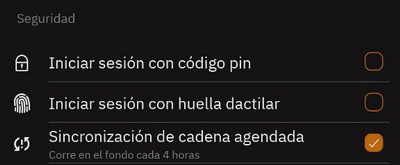
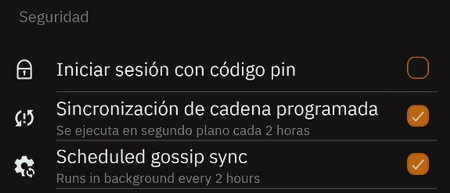
update features EN and ES with images

diff --git a/features_es.html b/features_es.html
@@ -248,12 +248,25 @@ title: Características
     </p>
   <h4>Sincronización de cadena programada</h4>
     <p>
-      Esta opción por defecto viene activada y es mejor quedarse así. 
-      Ejecutará la sincronización de bloques con Neutrino, cada 4 horas, si la aplicación está activa.
+      Esta opción viene activada por defecto y lo mejor es mantenerla así.
+      Ejecutará la sincronización de bloques de Neutrino cada 4 horas en segundo plano.
     </p>
     <p>
-      Si esta opción está deshabilitada, el nodo dejará de funcionar y toda la aplicación Blixt no funcionará correctamente. 
-      Una vez reactivada, es mejor reiniciar la aplicación, para que el nodo lnd inicie sus servicios correctamente.
+      Si esta opción está deshabilitada, la sincronización de neutrinos solo es posible cuando la aplicación se ejecuta en primer plano.
+      Esto puede hacer que la sincronización de la cadena de bloques tarde más en el inicio de la aplicación si Blixt Wallet no se ha abierto en algún momento.
+    </p>
+    <p>
+      Nota: esta función no está disponible actualmente en iOS.
+    </p>
+  <h4>Sincronización de chismes programados</h4>
+    <p>
+      Esta opción NO está activada de forma predeterminada, pero se recomienda para una sincronización de gráficos LN más rápida.
+      Ejecutará la sincronización de chismes de LN cada 2 horas en segundo plano.
+    </p>
+    <p>
+      Si esta opción está deshabilitada, la sincronización del gráfico LN solo es posible cuando la aplicación se ejecuta en primer plano.
+      Esto puede hacer que la sincronización de LN tarde más en el inicio de la aplicación si Blixt Wallet no se ha abierto en algún momento.
+      y, a veces, incluso podría desencadenar "pagos fallidos debido a que no hay rutas".
     </p>
   </section>
 
@@ -338,6 +351,14 @@ title: Características
     <p>Tenga en cuenta que si desea agregar pares que están detrás de Tor, primero deberá activar el
       Opción Tor en la configuración de Blixt y reinicie la aplicación Blixt.
     </p>
+  <h4>Mostrar información de red</h4>
+    <p>Esta pantalla mostrará el estado del gráfico LN sincronizado por su nodo Blixt.
+       Es una muy buena información estadística para ver cómo se posiciona su nodo Blixt en toda la red.</p>
+    <p>Mostrará: capacidad total de la red, número de canales, número de nodos, tamaño promedio del canal, número de canales zombis.</p>
+  <h4>Establecer tarifa máxima de pago</h4>
+    <p>En esta opción, el usuario puede establecer su propio porcentaje de tarifa que está dispuesto a pagar.</p>
+    <p>Esta opción es muy útil en los casos en que un pago podría fallar debido a las altas tarifas de enrutamiento encontradas.</p>
+    <p>Proceda con precaución, por defecto es 2%, como tarifa máxima, puede aumentarla lentamente.</p>
   <h4>Canales abiertos automáticamente</h4>
     <p>
       Una característica básica de LND, que ofrece al usuario una forma sencilla de abrir automáticamente su primer canal LN.
@@ -364,6 +385,21 @@ title: Características
       Es fácil de usar, solo ve y actívalo, selecciona uno de los proveedores de liquidez en la lista, por el momento Thor Bitrefill y LNBIG, 
       pague la cantidad que desee por el canal y proporcione su nodoURI de cebolla Blixt Tor hacia el canal que estará abierto.
     </p>
+  <h4>Habilitar Dunder LSP</h4>
+    <p>Un servicio increíble que le permite comenzar a aceptar BTC a través de Lightning Network de inmediato,
+      sin necesidad de depositar primero fondos en la cadena para abrir un canal Lightning.
+    </p>
+    <p>
+      Para los nuevos usuarios, esta es una experiencia rápida y fácil porque pueden comenzar desde cero y recibir fondos directamente a través de Lightning Network.
+    </p>
+    <p>El tamaño del canal abierto por Dunder LSP está sujeto a cambios según la demanda y la liquidez disponible.
+      Este es un servicio gratuito por ahora para facilitar la incorporación de nuevos usuarios y crear una experiencia perfecta para recibir fondos directamente a través de Lightning Network. La única tarifa que se cobra es la tarifa en cadena necesaria para abrir el canal de entrada.
+    </p>
+    <p><a href="https://github.com/hsjoberg/dunder-lsp">Lea más sobre el desarrollo de Dunder LSP aquí.</a></p>
+    <p><a href="guides.html#guide-lsp">Lea una guía más detallada sobre el uso de Dunder LSP en la página de guías de Blixt.</a></p>
+  <h4>Establecer el servidor LSP de Dunder</h4>
+    <p>En esta sección, el usuario puede configurar un servidor Dunder LSP personalizado, diferente al predeterminado dunder.blixtwallet.com.</p>
+    <p>Puede consultar <a href="https://github.com/hsjoberg/blixt-wallet/issues/1033">en esta lista de la comunidad</a> qué otros corredores de nodos podrían ofrecer estos servicios de canales de Dunder.< /p>
   <h4>Espere la sincronización del mapa LN (graph) antes de pagar</h4>
     <p>
       Esta opción está deshabilitada por defecto y es bastante técnica. 
@@ -384,12 +420,12 @@ title: Características
     <p>
       Muestra los detalles más técnicos habituales sobre el desarrollador de Blixt, el software utilizado, la información de Github y las licencias.
     </p>
-  <h4>Copie el registro de la aplicación en el almacenamiento local</h4>
+  <h4>Copiar el registro de la aplicación en el almacenamiento local</h4>
     <p>
       Esta opción le brinda al usuario una forma de exportar todos los registros de la aplicación a una carpeta seleccionada en el dispositivo local. 
       Más tarde, el archivo de registro (txt) podría consultarse o enviarse para su depuración al desarrollador o al equipo de soporte.
     </p>
-  <h4>Copie el registro de lnd en el almacenamiento local</h4>
+  <h4>Copiar el registro de lnd en el almacenamiento local</h4>
     <p>
       Esta opción es muy útil para exportar y depurar los registros del nodo lnd a una carpeta seleccionada. 
       Una vez que se hace clic, se le pide al usuario que seleccione una carpeta de destino. 
@@ -401,6 +437,8 @@ title: Características
       Pero si está probando los pagos y establece un tiempo más alto para vencer las facturas que creó, 
       puede reutilizar las facturas pendientes de pago anteriores de la lista.
     </p>
+  <h4>Transiciones de pantalla</h4>
+    <p>Activar/desactivar una suave transición animada de pantallas usando Blixt.</p>
   <h4>Firmar mensaje con llave del monedero</h4>
     <p>
       Característica muy poderosa, que ofrece una forma de firmar mensajes o acciones específicas, utilizando la clave de billetera única como autenticador. 
@@ -428,13 +466,6 @@ title: Características
     </p>
     <p><a href="https://github.com/hsjoberg/dunder-lsp">Lea más sobre el desarrollo de Dunder LSP aquí.</a></p> 
     <p><a href="guides_es.html#guia-lsp">Lea una guía más detallada sobre el uso de Dunder LSP en la página de guías de Blixt.</a></p>
-  <h4>Habilitar pagos de múltiples rutas</h4>
-    <p>
-      Característica muy poderosa para una billetera LN. 
-      Cuando está habilitado, un pago más grande se divide en partes más pequeñas y puede tomar más rutas.
-    </p>
-    <p>De esta manera está utilizando canales y pares de una manera más eficiente y evita pagos atascados, debido a la baja liquidez en el camino.</p>
-    <p>El valor predeterminado no está habilitado, pero es bueno usarlo cuando desea realizar un pago mayor. Para pequeños pagos no se utiliza.</p>
   <h4>Habilitar Tor</h4>
     <p>Una vez activada, la aplicación Blixt se reiniciará usando la red Tor.
       A partir de ese momento, puede ver en la configuración del menú: Información de nodo, su ID de nodo con una dirección onion,
@@ -443,7 +474,7 @@ title: Características
       O digamos que tiene su propio nodo en casa y quiere tener un canal con su nodo Blixt móvil.
       Una combinación perfecta. <a href="guides_es.html#guia-companion">Ver más detalles en la página de Guías Blixt.</a>
     </p>
-  <h4>Caducidad de la factura</h4>
+  <h4>Vencimiento de la factura</h4>
     <p>
       Esta opción es para cuando el usuario desea crear una factura LN específica con un tiempo de vencimiento específico (normalmente más largo). 
       El valor predeterminado es 3600 segundos.
@@ -452,45 +483,68 @@ title: Características
       Tenga en cuenta que usar un tiempo más largo para caducar no significa que pueda cerrar su Blixt Wallet para recibir esa factura, 
       aún necesita mantener abierta su aplicación Blixt, para mantener los canales en línea y su nodo Blixt accesible.
     </p>
+  <h4>Habilitar la búsqueda de ruta bimodal</h4>
+    <p>Esta es una característica bastante nueva de LND que ayuda a encontrar una mejor ruta de pago.</p>
+    <p><a href="https://docs.lightning.engineering/lightning-network-tools/lnd/pathfinding#docs-internal-guid-d4234be7-7fff-4a09-fdbb-2c7e451ed1db">Lea más detalles sobre bimodal búsqueda de caminos aquí.</a></p>
   </section>
 
   <section id="opcion-debug">
   <h3>Sección de depuración</h3>
     <p><img src="assets/images/blixt-options-debug-es.jpg" align="center" alt="Blixt Debug Options"/></p>
   <h4>Mostrar notificaciones de información de inicio</h4>
-    <p>Esta opción, cuando está activada y la aplicación Blixt se está iniciando, mostrará notificaciones de depuración en la parte inferior de la pantalla.
-      Se usa principalmente para usuarios avanzados cuando se desea diagnosticar los servicios de inicio de la aplicación.
-    </p>
-  <h4>Volver a escanear monedero</h4>
     <p>
-      Herramienta muy útil, cuando al usuario le faltan UTXO en la billetera onchain, 
-      o después de cerrar los canales, los fondos no aparecen reembolsados.    
+      Cuando está habilitado, las notificaciones aparecerán en la parte inferior de la pantalla después de iniciar Blixt Wallet mostrando el estado actual del proceso de inicio. Esto puede ser útil para depurar problemas de inicio.
     </p>
-    <p>
-      Una vez activada, la aplicación Blixt debe reiniciarse. El proceso finaliza cuando se inicia lnd y, 
-      después de una sincronización rápida, comenzará a escanear 
-      todos los bloques para direcciones BTC usadas, agregando el historial de transacciones en la billetera onchain.
+  <h4>Volver a escanear la billetera</h4>
+    <p>Esta es una herramienta útil si parece que le faltan fondos en la billetera en cadena.</p>
+    <p>Una vez activado, Blixt Wallet debe reiniciarse. El proceso comenzará en el próximo inicio de Blixt Wallet y escaneará
+      todos los bloques para las direcciones de Bitcoin usadas, agregando cualquier transacción encontrada a la lista del historial de transacciones en la billetera en cadena. Este proceso puede llevar algún tiempo, así que tenga paciencia.
     </p>
   <h4>Centro de ayuda móvil de LND</h4>
-    <p>Una herramienta muy útil y poderosa para diagnosticar, depurar y probar el estado y los servicios de Blixt Wallet y lnd node.
-      Se puede usar cuando el usuario está en contacto con el desarrollador de Blixt o con el soporte de ayuda en Telegram, para identificar posibles problemas.
+    <p>Esta es una herramienta muy poderosa que se puede usar para diagnosticar, depurar y probar Blixt Wallet y el nodo lnd subyacente.
+      Se puede usar cuando el usuario está en contacto con el desarrollador de Blixt Wallet o soporte en Telegram para identificar posibles problemas.
     </p>
   <h4>Obtener información del nodo</h4>
-    <p>Herramienta sencilla para obtener más información sobre un nodo remoto. El usuario debe proporcionar un ID de nodo.</p>
-  <h4>Leer registro LND</h4>
-    <p>Muy buena herramienta para verificar los registros de lnd y diagnosticar cuando la billetera tiene problemas.
-      También se pueden copiar los registros y enviarlos al desarrollador para una mayor depuración.
-      Pero en general se usa para verificar los servicios y conexiones de inicio, sincronización, etc.
+    <p>Una herramienta sencilla para obtener más información sobre un nodo remoto. Debe proporcionar un ID de nodo.</p>
+  <h4>Obtener información del canal</h4>
+    <p>Una herramienta simple para obtener más información sobre un canal remoto para depurar su estado. Debe proporcionar un ID de canal.</p>
+  <h4>Diagnosticar problemas de Dunder</h4>
+    <p>Una herramienta de depuración simple para probar si un servidor Dunder está en línea y/o tiene fondos suficientes para abrir un canal Dunder.</p>
+  <h4>Leer registro LND</h3>
+    <p>Una herramienta para ver el registro de lnd para diagnosticar cualquier problema que pueda tener.
+      El registro también se puede copiar para enviarlo al desarrollador para una mayor depuración.
+      En general, se puede usar para verificar el proceso de inicio para asegurarse de que todo se vea bien y que la billetera se sincronice correctamente.
     </p>
+  <h4>Establecer nivel de registro LND</h4>
+    <p>Cambie el modo de visualización de los registros LND para centrarse mejor en la información que necesita (depuración, información, advertencia, error, crítica).</p>
   <h4>Activar modo de demostración</h4>
-    <p>Una buena manera de probar la aplicación Blixt, se usa más para demostraciones y no usa datos reales ni satélites.
-      Se usa una sola vez cuando está activado. Después de reiniciar, vuelve a la billetera real normal.
+    <p>Una buena manera de probar Blixt Wallet con fines de demostración sin revelar la información real de la billetera.
+      Cuando se activa, Blixt Wallet estará en modo de demostración hasta que se reinicie.
     </p>
-  <h4>Deshabilitar caché de gráfico lnd</h4>
+  <h4>Desactivar caché de gráfico lnd</h4>
     <p>
-      Una herramienta de depuración para ayudar a un inicio más rápido y diagnosticar posibles problemas. 
-      Se usa más con la ayuda del desarrollador de Blixt.
+      Una herramienta de depuración para ayudar con un inicio más rápido y para diagnosticar posibles problemas. Se usa más con la ayuda del desarrollador de Blixt Wallet.
     </p>
+  <h4>Desactivar caché de gráfico LND</h4>
+    <p>Esta opción debe usarse solo con la supervisión de los desarrolladores de Blixt, solo en caso de problemas de depuración.</p>
+  <h4>Escribir configuración</h4>
+    <p>Esta opción se usa cuando el usuario hará cambios en la configuración del nodo lnd desde los menús avanzados.</p>
+  <h4>Restablecer conocimiento de enrutamiento de pago</h4>
+    <p>Herramienta útil que podría ayudar en caso de un pago fallido debido a que no se encontró la ruta.</p>
+    <p>Está borrando todas las rutas anteriores utilizadas en un pago y prueba una nueva ruta.</p>
+  <h4>Habilitar pagos de múltiples rutas</h4>
+    <p>Una característica muy poderosa para una billetera LN. Cuando está habilitado, un pago más grande se divide en partes más pequeñas que pueden tomar varias rutas.</p>
+    <p>Esto utiliza la liquidez en los canales de manera más eficiente y puede ayudar a evitar que los pagos se atasquen debido a la falta de liquidez en una sola ruta para un pago mayor.</p>
+    <p>Esto está deshabilitado de forma predeterminada, pero es una buena idea usarlo, especialmente si desea realizar o recibir pagos más grandes.</p>
+  <h4>Habilitar LND persistente y Tor</h4>
+    <p>Si está habilitado, el servicio lnd y Tor permanecerán persistentes en el dispositivo.</p>
+    <p>El usuario notará una notificación superior con respecto al servicio Blixt lnd.</p>
+    <p>No se notó un gran consumo de batería del dispositivo, pero los usuarios deben tener en cuenta que este servicio persistente podría usar más de lo habitual.</p>
+    <p>Se recomienda usar solo en los casos en que el nodo Blixt sea necesario para estar permanentemente en línea
+       y sincronizado y el dispositivo está conectado a una fuente de alimentación (por ejemplo, la tienda del comerciante).</p>
+  <h4>Habilitar la poda de gráfico LN estricta</h4>
+    <p>Tenga en cuenta: esta opción es solo para depuración y experimentación. Podría afectar drásticamente la búsqueda de la ruta de pago.</p>
+    <p>Úselo solo con la supervisión de los desarrolladores de Blixt.</p>
   </section>
 
   <section id="blixt-cajon">

diff --git a/features.html b/features.html
@@ -198,6 +198,16 @@ title: Features
     <p>
       Note: This feature is not currently available on iOS.
     </p>
+    <h4>Scheduled gossip sync</h4>
+    <p>
+      This option is NOT activated by default but is recommended for a faster LN graph sync.
+      It will run the sync of LN gossip every 2 hours in the background.
+    </p>
+    <p>
+      If this option is disabled, the LN graph sync is only possible when the app is running in the foreground.
+      This can make the LN sync take longer on app start up if Blixt Wallet has not been opened in some time
+      and sometimes could even trigger "failed payments due to no routes".
+    </p>
   </section>
 
   <section id="option-display">
@@ -274,6 +284,14 @@ title: Features
     </p>
     <p>Keep in mind that if you want to add peers that are behind Tor, you need to first enable the Tor option in settings and restart the Blixt Wallet app.
     </p>
+  <h4>Show Network Info</h4>
+    <p>This screen will display the status of the LN graph synced by your Blixt node. 
+       Is a very good statistic info to see how your Blixt node is positioned in the whole network.</p>
+    <p>Will display: Total network capacity, No. of channels, No. of nodes, Average channel size, No. of zombie channels.</p>
+  <h4>Set maximum payment fee</h4>
+    <p>In this option, the user can set his own percentage of fee that is willing to pay.</p>
+    <p>This option if very useful in cases that a payment could fail because of high routing fees encountered.</p>
+    <p>Proceed with caution, by default is 2%, as maximum fee, you can increase it slowly.</p>
   <h4>Automatically open channels</h4>
     <p>
       When this is enabled, if you don't yet have any open channels, Blixt Wallet will use any funds sent to the on-chain wallet to automatically open a channel to the Blixt Wallet LSP node. This will not currently work if you already have an open channel. To open subsequent channels, you will either have to manually open it or receive funds with the Dunder LSP.
@@ -288,6 +306,21 @@ title: Features
       It is easy to use, just select one of the liquidity providers in the list, at the moment the options are Bitrefill Thor and LNBIG. 
       Pay the amount you want for the channel and provide your Blixt Wallet Tor onion node URI and the channel will be opened.
     </p>
+  <h4>Enable Dunder LSP</h4>
+    <p>An amazing service that allows you to start accepting BTC over the Lightning Network straight away, 
+      with no need to first deposit funds on-chain to open a Lightning channel.
+    </p>
+    <p>
+      For new users this is a quick and easy experience because they can start from zero, receiving funds directly over the Lightning Network.
+    </p>
+    <p>The size of the channel opened by the Dunder LSP is subject to change depending on demand and available liquidity. 
+      This is a free service for now to make it easy to onboard new users and create a seamless experience to directly receive funds over the Lightning Network. The only fee charged is the on-chain fee needed to open the inbound channel.
+    </p>
+    <p><a href="https://github.com/hsjoberg/dunder-lsp">Read more about Dunder LSP development here.</a></p> 
+    <p><a href="guides.html#guide-lsp">Read a more detailed guide about using Dunder LSP in the Blixt Guides page.</a></p>
+  <h4>Set Dunder LSP Server</h4>
+    <p>In this section the user could set a custom Dunder LSP Server, different than default dunder.blixtwallet.com.</p>
+    <p>You can consult <a href="https://github.com/hsjoberg/blixt-wallet/issues/1033">in this community list</a> which other node runners could offer these Dunder channels services.</p>
   <h4>Wait for graph sync before paying</h4>
     <p>
       This option is disabled by default and is quite technical. 
@@ -316,6 +349,8 @@ title: Features
     <p>
       This will automatically remove unfulfilled expired invoices from the transactions list on the main screen to reduce clutter.
     </p>
+  <h4>Screen transitions</h4>
+    <p>Activate/deactivate a smooth animated transition of screens using Blixt.</p>
   <h4>Sign message with wallet key</h4>
     <p>
       This is a very powerful feature that offers a way to cryptographically sign specific messages using your wallet key.
@@ -329,22 +364,6 @@ title: Features
     <p>This section is named "experiments" because the options displayed are still in development and are not fully tested yet 
       and are subject to change. You should take this into consideration and use these features with caution.
     </p>
-  <h4>Enable Dunder LSP</h4>
-    <p>An amazing service that allows you to start accepting BTC over the Lightning Network straight away, 
-      with no need to first deposit funds on-chain to open a Lightning channel.
-    </p>
-    <p>
-      For new users this is a quick and easy experience because they can start from zero, receiving funds directly over the Lightning Network.
-    </p>
-    <p>The size of the channel opened by the Dunder LSP is subject to change depending on demand and available liquidity. 
-      This is a free service for now to make it easy to onboard new users and create a seamless experience to directly receive funds over the Lightning Network. The only fee charged is the on-chain fee needed to open the inbound channel.
-    </p>
-    <p><a href="https://github.com/hsjoberg/dunder-lsp">Read more about Dunder LSP development here.</a></p> 
-    <p><a href="guides.html#guide-lsp">Read a more detailed guide about using Dunder LSP in the Blixt Guides page.</a></p>
-  <h4>Enable Multi-Path Payments</h4>
-    <p>A very powerful feature for a LN wallet. When enabled, a larger payment is split into smaller parts that can take multiple paths.</p>
-    <p>This uses liquidity in channels more efficiently and can help to avoid payments getting stuck due to insufficient liquidity along a single path for a larger payment.</p>
-    <p>This is disabled by default, but it's a good idea to use it, especially if you want to make or receive larger payments.</p>
   <h4>Enable Tor</h4>
     <p> 
       Disabled by default. Enabling or disabling this option will require you to restart Blixt Wallet. When enabled, you can connect to Bitcoin or Lightning nodes privately over the Tor network. Keep in mind some services will still connect over clearnet. 
@@ -356,6 +375,9 @@ title: Features
     <p>
       Keep in mind that Blixt Wallet must be open and online to receive payments. Setting this to a longer time doesn't mean you can close the app and still receive the payment.
     </p>
+  <h4>Enable bimodal pathfinding</h4>
+    <p>This is a quite new feature of LND that help finding a better payment path finding.</p>
+    <p><a href="https://docs.lightning.engineering/lightning-network-tools/lnd/pathfinding#docs-internal-guid-d4234be7-7fff-4a09-fdbb-2c7e451ed1db">Read more details about bimodal pathfinding here.</a></p>
   </section>
 
   <section id="option-debug">
@@ -376,12 +398,17 @@ title: Features
     </p>
   <h4>Get node info</h4>
     <p>A simple tool to get more information about a remote node. You must provide a node ID.</p>
+  <h4>Get channel info</h4>
+    <p>A simple tool to get more information about a remote channel to debug their status. You must provide a channel ID.</p>
+  <h4>Diagnose Dunder problems</h4>
+    <p>A simple debug tool to test if a Dunder server is online and/or have enough funds to open a Dunder chaNnnel.</p>
   <h4>Read LND log</h3>
     <p>A tool to view the lnd log to diagnose any issues it may be having.
       The log can also be copied to be sent to the developer for further debugging.
       In general it can be used to check on the startup process to ensure that everything is looking good and that the wallet is syncing properly.
-
     </p>
+  <h4>Set LND log level</h4>
+    <p>Change the display mode of the LND logs for a better focus on info you need it (debug, info, warn, error, critical).</p>
   <h4>Activate Demo Mode</h4>
     <p>A nice way to test Blixt Wallet for demonstration purposes without revealing the real wallet info.
       When activated, Blixt Wallet will be in demo mode until it is restarted.
@@ -390,6 +417,26 @@ title: Features
     <p>
       A debugging tool to help with faster startup and to diagnose possible issues. Is used more with assistance from the Blixt Wallet developer.
     </p>
+  <h4>Disable LND graph cache</h4>
+    <p>This option should be used only with supervision from Blixt developers, only in case of debugging issues.</p>
+  <h4>Write config</h4>
+    <p>This option is used when user will do changes in the lnd node settings from advanced menus.</p>
+  <h4>Reset payment routing knowledge</h4>
+    <p>Useful tool that could help in case of a failed payment due to path not found.</p>
+    <p>Is clearing all previous routes used in a payment and try a new route.</p>
+  <h4>Enable Multi-Path Payments</h4>
+    <p>A very powerful feature for a LN wallet. When enabled, a larger payment is split into smaller parts that can take multiple paths.</p>
+    <p>This uses liquidity in channels more efficiently and can help to avoid payments getting stuck due to insufficient liquidity along a single path for a larger payment.</p>
+    <p>This is disabled by default, but it's a good idea to use it, especially if you want to make or receive larger payments.</p>
+  <h4>Enable Persistent LND and Tor</h4>
+    <p>If enabled, the lnd service and Tor will remain persistent on the device.</p>
+    <p>User will notice a top notification in regards of Blixt lnd service.</p>
+    <p>It wasn't noticed a big drain of device battery, but users should be aware that this persistent service could use more than usual.</p>
+    <p>It is recommended to use only in cases when the Blixt node is necessary to be permanently online
+       and synced and the device is connected to a power source (eg. merchant's shop).</p>
+  <h4>Enable strict LN graph pruning</h4>
+    <p>Be aware: this option is only for debugging and experimental. It could affect drastically the payment path finding.</p>
+    <p>Use it only with supervision from Blixt developers.</p>
   </section>
 
   <section id="blixt-drawer">
